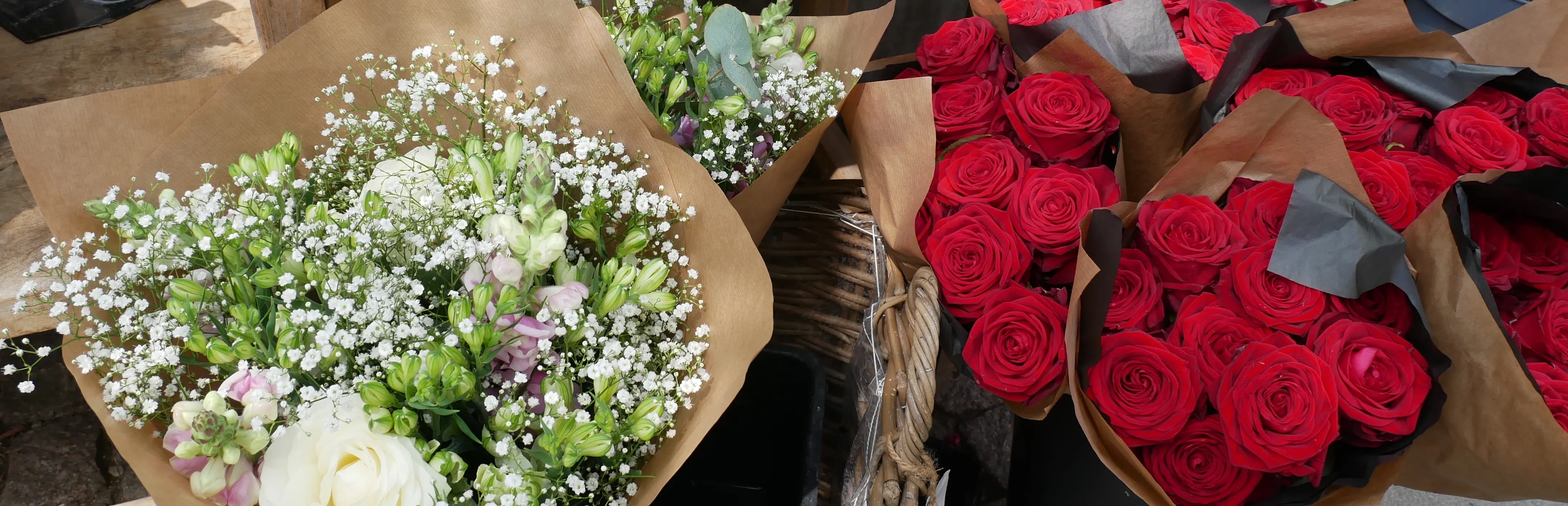
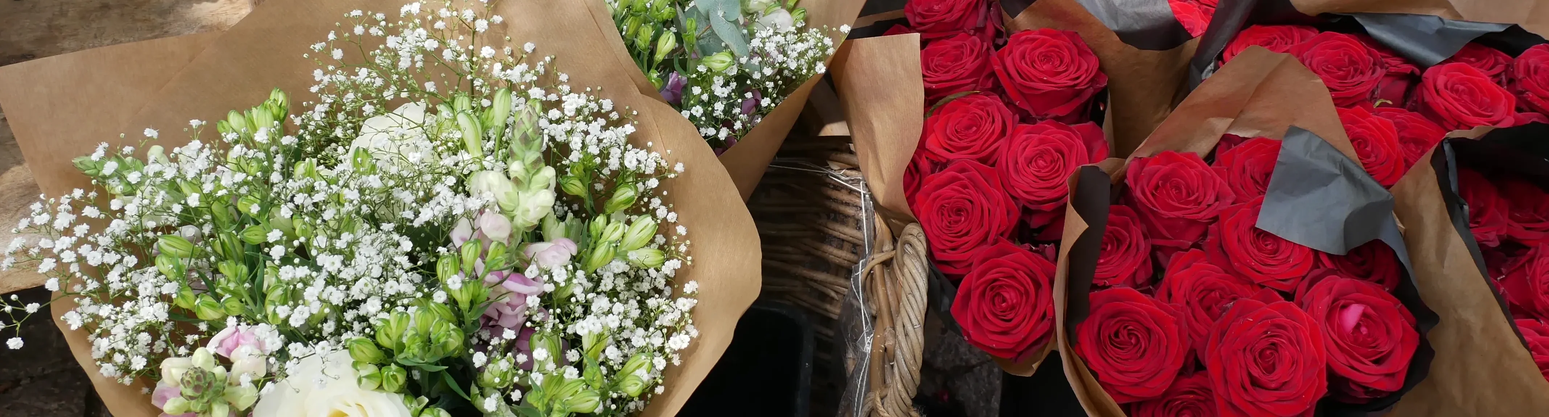
opdatering af buketter

diff --git a/buketter.html b/buketter.html
@@ -33,26 +33,17 @@
         </nav>
     </header>
     <main>
-        <div class="baggrund_b">
+        <div class="imgt">
             <div class="imgb"><img src="IMAGES/butekker.webp" alt="buktetter"></div>
-            <div class="grid1_1">
-                <div class="logo_hvid">
-                    <img src="IMAGES/Tree_Logo.png" alt="logo">
-                </div>
-                <div class="grid_tekst">
-                    <div>
-                        <h6>Florateket</h6>
-                    </div>
-                    <div>
-                        <h5>Et bontanisk paradis</h5>
-                    </div>
-                </div>
-            </div>
+            <section class="section1"></section>
         </div>
+        <h6>Buketter</h6>
+
         <div>
             <h3>En blomsterbuket kan sige mere end tusind ord</h3>
         </div>
-        <div>
+        <div class="tekst">
+            <h4>Kom ned i butikken og se vores store udvalg af flotte og friske blomster til alle sæsoner</h4>
             <h4>Alle vores buketter er håndbundet og smukt indpakket</h4>
         </div>
         <div class="grid1_1_1_1">
@@ -60,6 +51,7 @@
                 <img src="IMAGES/buket1.webp" alt="buket1">
                 <img class="top-img" src="IMAGES/buket1zoom.webp" alt="buket1zoom">
             </div>
+
             <div class="img_container">
                 <img src="IMAGES/buket2.webp" alt="buket2">
                 <img class="top-img" src="IMAGES/buket2zoom.webp" alt="buket2zoom">
@@ -72,9 +64,11 @@
                 <img src="IMAGES/buket4.webp" alt="buket4">
                 <img class="top-img" src="IMAGES/buket4zoom.webp" alt="buket4zoom">
             </div>
-
         </div>
-
+        <div>
+            <h4>Kontakt os for at høre mere om pris og valg af blomster</h4>
+        </div>
+        <div><a class="kontakt" href="omos.html">Kontakt os her</a></div>
     </main>
     <footer>
         <div class="footer_grid">

diff --git a/style/buketter.css b/style/buketter.css
@@ -1,6 +1,6 @@
-main {
-  max-width: 1200px;
-  margin: 0 auto;
+body {
+  background-image: url(/IMAGES/Background.png);
+  background-size: cover;
 }
 
 /********* Fonts *********/
@@ -12,12 +12,12 @@ h3 {
 }
 
 h4 {
-  font-family: "Times New Roman", Times, serif;
+  font-family: "Bodoni";
   text-align: center;
 }
 
 h6 {
-  font-family: "Times New Roman", Times, serif;
+  font-family: "Bodoni";
   font-size: 90px;
   margin: 0;
 }
@@ -42,32 +42,24 @@ h5 {
   .grid1_1_1_1 {
     display: grid;
     grid-template-columns: 1fr 1fr 1fr 1fr;
-    gap: 20px;
     text-align: center;
-    margin: -30px;
     margin-bottom: auto;
+    margin-top: auto;
   }
   .imgb {
     width: 100%;
-    height: 465px;
+    height: 363px;
     display: flex;
-    margin-bottom: 6px;
+    margin-bottom: 0px;
     margin-top: 6px;
     justify-content: center;
     transform: scaleX(-1);
   }
+
   .grid1_1 {
     display: grid;
     grid-template-columns: 1fr 1fr;
     position: relative;
-  }
-  .grid_tekst {
-    position: relative;
-    top: -95%;
-    left: -62%;
-    z-index: 1;
-    color: white;
-    margin: 0;
   }
 }
 .img_container {
@@ -75,6 +67,7 @@ h5 {
   width: 300px;
   height: 400px;
   margin-bottom: 20px;
+  box-shadow: 0px 5px 5px 0px rgba(0, 0, 0, 0.05);
 }
 .img_container img {
   width: 100%;
@@ -99,4 +92,17 @@ h5 {
   left: -21%;
   z-index: 1;
   width: 15%;
+}
+.section1 {
+  position: relative;
+  top: -1%;
+  height: 60px;
+  background-color: #8c8d6e;
+}
+.grid_tekst {
+  position: relative;
+}
+.kontakt {
+  text-align: center;
+  font-family: "Times New Roman", Times, serif;
 }
